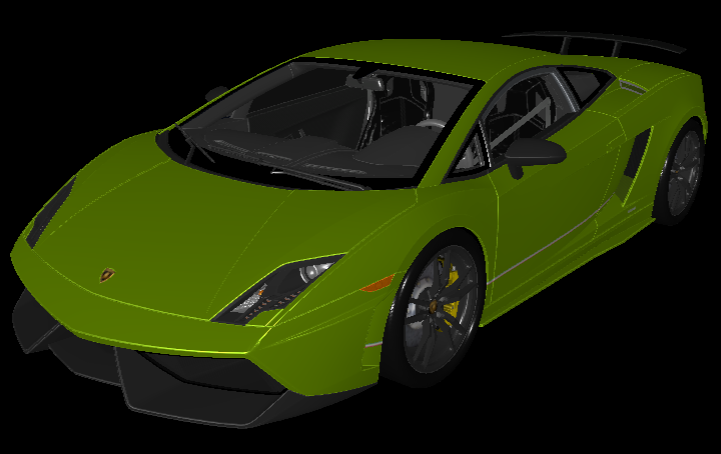
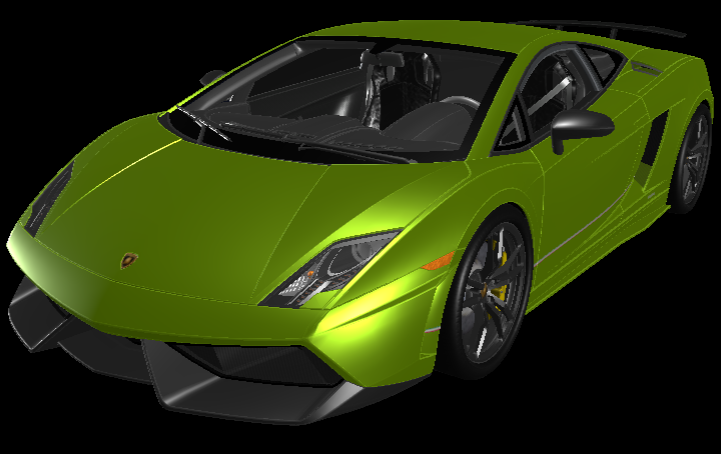
Update

diff --git a/src/main/resources/public/js scripts/3DModel-Scene-Switching.js b/src/main/resources/public/js scripts/3DModel-Scene-Switching.js
@@ -336,7 +336,7 @@ function initThirdPersonScript() {
                     if (child.isMesh) {
                         const material = child.material;
                         if (material) {
-                            material.metalness = 0.9;
+                            material.metalness = 0.8;
                             material.roughness = 0.5;
                         }
                     }
@@ -923,7 +923,7 @@ function initFirstPersonScript() {
                     if (child.isMesh) {
                         const material = child.material;
                         if (material) {
-                            material.metalness = 0.9;
+                            material.metalness = 0.8;
                             material.roughness = 0.5;
                         }
                     }
@@ -1154,7 +1154,7 @@ function initFirstPersonScript() {
                         }
                     }
                 });
-            } else if (carParam.includes(`Toyota-Gr-Supra-2020.glb`)) {
+            } else if (carParam.includes(`Toyota-Supra-Gr-2020.glb`)) {
                 camera.position.set(0, 15, 105);
                 model.scale.set(15, 15, 15);
                 gltf.scene.traverse((child) => {

diff --git a/src/main/resources/public/pages/showroom.html b/src/main/resources/public/pages/showroom.html
@@ -37,7 +37,7 @@
     <button id="firstPersonBtn" style="flex-direction: column; align-items: center;">First Person View</button>
     <button id="thirdPersonBtn">Third Person View</button>
 </div>
-<a href="/cars-info" id="info-page">Check Vehicle Info</a>
+<a href="/cars-info" id="info-page">View Specifications</a>
 <div th:if="${access == 'no-access'}">
     <script>
         document.getElementById(`info-icon`).style.display = "none";

diff --git a/src/main/java/com/example/app/controllers/CarOrderController.java b/src/main/java/com/example/app/controllers/CarOrderController.java
@@ -5,6 +5,7 @@ import com.example.app.services.CarOrderControllerService;
 import jakarta.servlet.http.HttpServletResponse;
 import org.springframework.http.ResponseEntity;
 import org.springframework.web.bind.annotation.*;
+
 import java.util.List;
 
 @RestController
@@ -23,17 +24,17 @@ public class CarOrderController {
         return carOrderControllerService.addOrder(request, response);
     }
 
-    // TODO make the request need auth token
     @GetMapping("/get")
     public ResponseEntity<List<CarOrder>> getOrders(@RequestParam("id") Long userId,
+                                                    @RequestParam("authToken") String authToken,
                                                     HttpServletResponse response) {
-        return carOrderControllerService.getOrders(userId, response);
+        return carOrderControllerService.getOrders(userId, authToken, response);
     }
 
     @DeleteMapping("/remove")
     public ResponseEntity<String> removeCarOrder(@RequestBody RemoveCarOrderRequest request,
                                                  HttpServletResponse response) {
-        return carOrderControllerService.removeCarOrder(request,response);
+        return carOrderControllerService.removeCarOrder(request, response);
     }
 
     @PutMapping("/modify")

diff --git a/src/main/java/com/example/app/services/impl/CarOrderControllerServiceImpl.java b/src/main/java/com/example/app/services/impl/CarOrderControllerServiceImpl.java
@@ -78,7 +78,7 @@ public class CarOrderControllerServiceImpl implements CarOrderControllerService 
     }
 
     @Override
-    public ResponseEntity<List<CarOrder>> getOrders(Long userId, HttpServletResponse response) {
+    public ResponseEntity<List<CarOrder>> getOrders(Long userId, String authToken, HttpServletResponse response) {
         // Find the user by ID
         Optional<User> userOptional = userService.findById(userId);
         AuthenticationToken authenticationToken = authenticationTokenService.findByUser_Id(userId);

diff --git a/src/main/java/com/example/app/services/CarOrderControllerService.java b/src/main/java/com/example/app/services/CarOrderControllerService.java
@@ -14,6 +14,7 @@ public interface CarOrderControllerService {
                                     HttpServletResponse response);
 
     ResponseEntity<List<CarOrder>> getOrders(@RequestParam("id") Long userId,
+                                             @RequestParam("authToken") String authToken,
                                              HttpServletResponse response);
 
     ResponseEntity<String> removeCarOrder(@RequestBody RemoveCarOrderRequest request,
